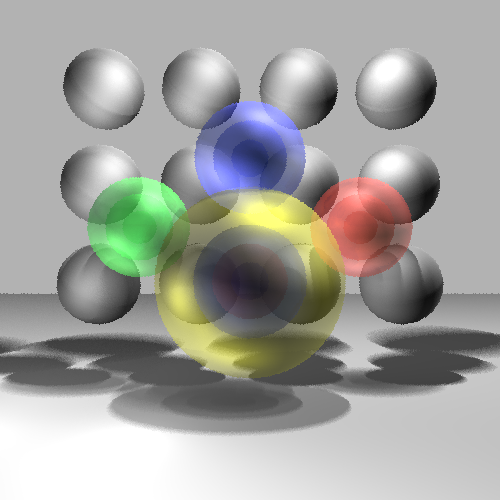
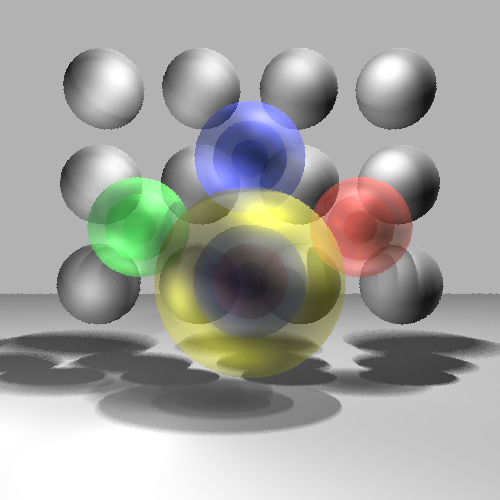
soft_shadow fix. kinda

diff --git a/Ray-Tracing/src/RayTrace/Scene.java b/Ray-Tracing/src/RayTrace/Scene.java
@@ -126,7 +126,7 @@ class Scene{
                         else {
                         	if(this.surfs.get(min_ind) instanceof Plane) {
                         		if(Math.signum(camray.direct.dot(normal)) != Math.signum(lightray.direct.dot(normal))){ //object is a plane or triangle and the light is coming from the other side of the camera
-                        			light_total = 0;
+                        			light_total *= this.surfs.get(min_ind).mat.trans;
                         		}
                         	}
                         }
@@ -136,7 +136,17 @@ class Scene{
                         light_total = 1;
                     }
                 }
-                temp = (((double)(cnt)+(rays_num2-(double)(cnt))*((double)1.0-lightray.light.shadow_intens))/rays_num2);
+                
+                //i'm not sure why it is happening but we get better results for a sphere without the shadow_intes part and better results for planes with that part.
+                int mod;
+                if(this.surfs.get(min_ind) instanceof Sphere) {
+                	mod =0 ;
+                }
+                else {
+                	mod = 1;
+                }
+                
+                temp = (((double)(cnt)+mod*(rays_num2-(double)(cnt))*((double)1.0-lightray.light.shadow_intens))/rays_num2);
      
                 temp = Math.abs(temp*normal.dot(lightray.direct));
               
@@ -205,7 +215,7 @@ class Scene{
                 int ind = (j+(imageHeight-1-i)*imageWidth)*3;                
                 for(si=0;si<sample_lev;si++){
                     for(sj=0;sj<sample_lev;sj++){
-                        camray = new Ray(this.cam.pos, p_0.plus(j_step.prod((double)j*sample_lev+sj+rand.nextDouble()).plus(i_step.prod((double)i*sample_lev+si+rand.nextDouble()))));
+                        camray = new Ray(this.cam.pos, p_0.plus(j_step.prod((double)j*sample_lev+sj+0.1+0.8*rand.nextDouble()).plus(i_step.prod((double)i*sample_lev+si+0.1+0.8*rand.nextDouble()))));
                         rgb = trace(camray, this.max_recurs);
                         lightInt[ind] += rgb[0];
                         lightInt[ind+1] += rgb[1];

diff --git a/Ray-Tracing/src/RayTrace/Rect.java b/Ray-Tracing/src/RayTrace/Rect.java
@@ -15,23 +15,33 @@ import java.util.Random;
     	Random rand = new Random();
     	public Rect(Vector tar,Vector dir1,Vector dir2, double radius,int N,Light lgt) {
     		raygrid = new Ray[N][N];
-    		
-    		dir1= dir1.prod(radius/(dir1.size()));
-    		dir2= dir2.prod(radius/(dir2.size()));
-    		p_0 = lgt.pos.minus(dir1.plus(dir2).prod(0.5));
-    		i_step = dir1.prod(1/((double)N));
-    		j_step = dir2.prod(1/((double)N));
+    		if(N == 1) {
+    			raygrid[0][0] = new Ray(lgt.pos,new Vector(lgt.pos,tar),lgt);
+    		}
+    		else {
+    		dir1= dir1.prod(0.5*radius/(dir1.size()));
+    		dir2= dir2.prod(0.5*radius/(dir2.size()));
+    		p_0 = lgt.pos.minus(dir2.plus(dir1));
+    		i_step = dir1.prod(2/((double)N));
+    		j_step = dir2.prod(2/((double)N));
+//    		if(N == 1) {
+//				src = p_0.plus(0); //rand.nextDouble()
+//				src = p_0.plus(j_step.prod(j+rand.nextDouble())); //rand.nextDouble()
+//    		}
     		for(int i=0; i<N;i++) {
     			for(int j=0;j<N;j++) {
-    				src = p_0.plus(i_step.prod(i+rand.nextDouble())); //rand.nextDouble()
-    				src = p_0.plus(j_step.prod(j+rand.nextDouble())); //rand.nextDouble()
+    				src = p_0.plus(i_step.prod(i+0.2+0.8*rand.nextDouble())); 
+    				src = src.plus(j_step.prod(j+0.2+0.8*rand.nextDouble())); //rand.nextDouble()
     				direction = new Vector(src,tar);
     				raygrid[i][j] = new Ray(src,direction,lgt);
     			}
     		}
     		
+    		}
     	}
+    }
+    		
     	
 
-    }
+    
     
